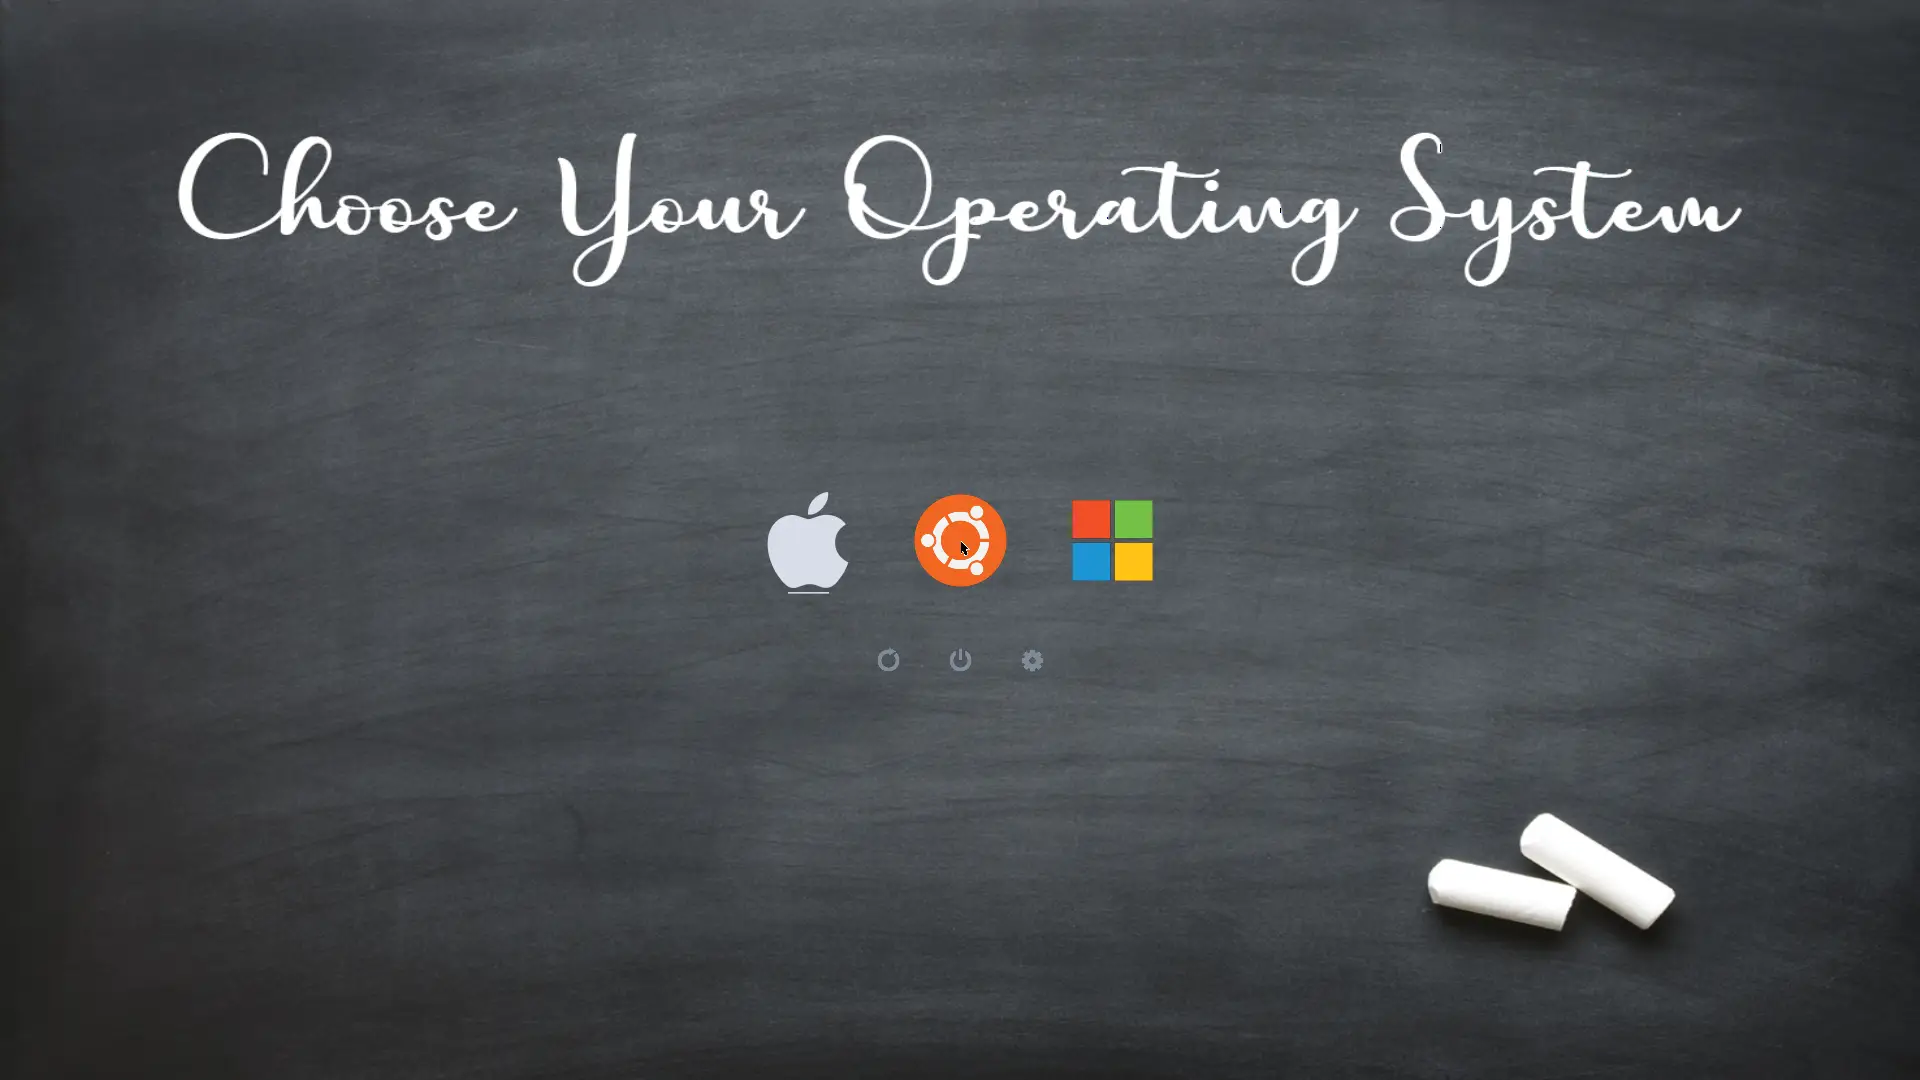
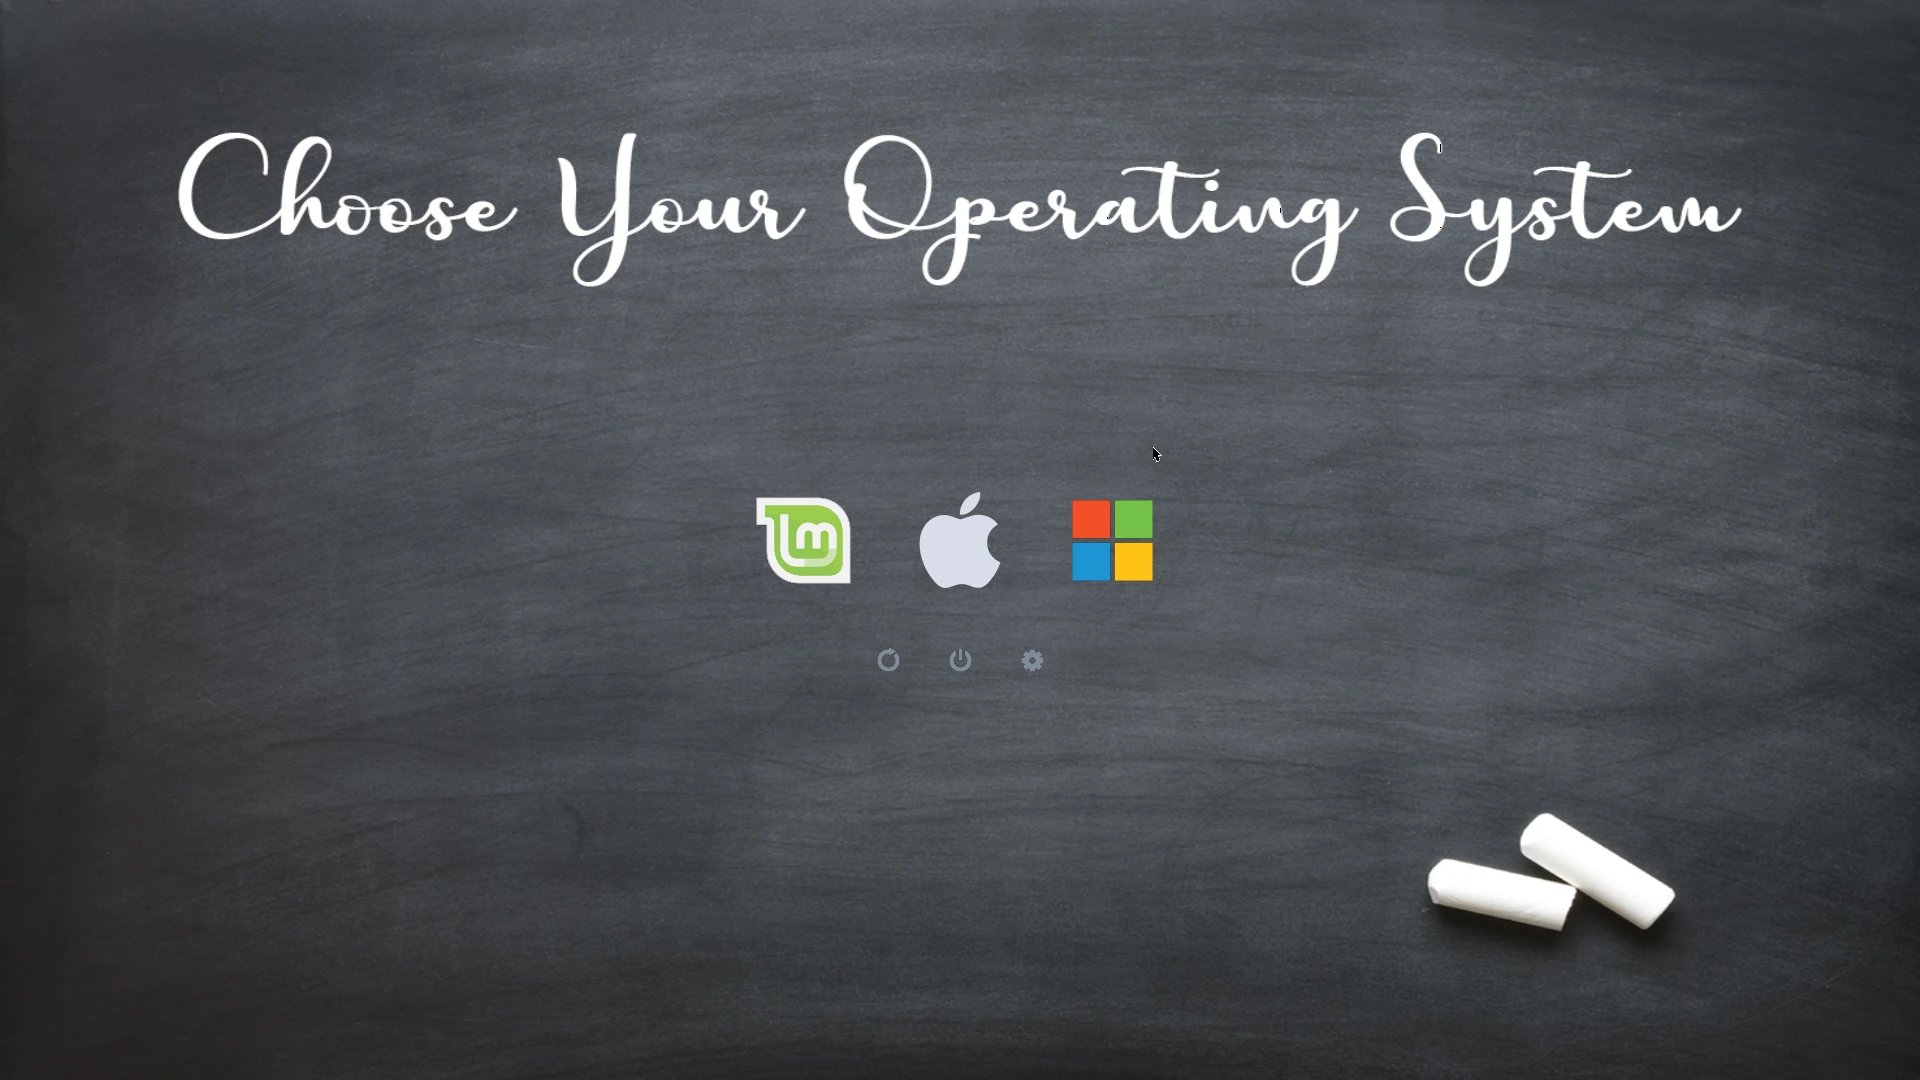
Opencore 1.0.5

Changed region(s): [[0.375, 0.4583, 0.5312, 0.55]]

diff --git a/README.md b/README.md
@@ -1,43 +1,65 @@
-# HACKINTOSH Dell Precision 5520
-# MacBook Pro 2017 14.3
+# 🍏 HACKINTOSH — Dell Precision 5520 → MacBook Pro 2017 14,3  
 
-  ![](https://github.com/GUNNERSx/Dell-Precision5520-hackintosh/blob/main/desktop.webp)
+![Desktop Preview](https://github.com/GUNNERSx/Dell-Precision5520-hackintosh/blob/main/desktop.webp)  
 
-  * Specifications
-  ![](https://github.com/GUNNERSx/Dell-Precision5520-hackintosh/blob/main/specs.webp)
+---
 
-**OpenCore Version** : [1.0.5](https://github.com/acidanthera/OpenCorePkg/releases)
+## 🛠 Specifications  
+![Specs](https://github.com/GUNNERSx/Dell-Precision5520-hackintosh/blob/main/specs.webp)  
 
- ### Bootloader
-  * [reFind](https://www.rodsbooks.com/refind/)
-  * ![](https://github.com/GUNNERSx/Dell-Precision5520-hackintosh/blob/main/reFindBootManager.webp)
-  **TRIPLE BOOT** : Ventura 13.6.4 / Ubuntu 22.04 / Windows 11
+🔄 **OpenCore Version**: [1.0.5](https://github.com/acidanthera/OpenCorePkg/releases)  
+🚀 **Bootloader**: [reFind](https://www.rodsbooks.com/refind/)  
+![reFind Manager](https://github.com/GUNNERSx/Dell-Precision5520-hackintosh/blob/main/reFindBootManager.webp)  
 
-## Configuration
+💻 **TRIPLE BOOT**  
+- 🍎 macOS Ventura 13.xx  
+- 🐧 Linux Mint 22  
+- 🪟 Windows 11  
 
-| Model     | MacBook Pro 2017  14.3      | Version        | Ventura 13.6.4      |
-| :-------- | :---------------------------| :------------- | :------------------ |
-| Processor | Intel Core i7-7820HQ        | Graphics       | Intel UHD 630       |
-| Memory    | 16Go x2                     | Storage        | SamSung SSD 970EVO  |
-| Mobo      | DeLL                        | BIOS revision  | DeLL Bios           |
-| Network   | intel AC 8265               | Audio          | Realtek layout 42   | 
-| Display   | DeLL LCD                    | Monitor        | LCD integrated      |
+---
 
- ### Working
- * GPU: Intel(R) UHD Graphics 630✅
- * Network Wifi: AC8265 AirportItlwm ✅
- * Bluetooth: IntelBluetoothFirmware ✅
- * Audio：spkear & mic working ✅
- * Input：keyboard mouse ✅
- * USB port：Working ✅ (Mapped with [USBTOOLBox](https://github.com/USBToolBox/tool))
- * Sleep/Wake：working ✅
- * Brightness keys ✅
- * Slow Trackpad fixed ✅
- 
- 
- ### Post installation
-  * I generated random Platform ID, use [GENSMBIOS](https://github.com/corpnewt/GenSMBIOS) or [OCAT](https://github.com/ic005k/OCAuxiliaryTools/releases) to generate your own Serial/UUID/MLB,
-   
- ## Credit
+## ⚙ Configuration  
 
- - Thanks to [Dortania Team](https://dortania.github.io/OpenCore-Install-Guide/prerequisites.html#prerequisites) and [OpenCoreTeam](https://github.com/acidanthera/OpenCorePkg)
+| 💻 **Model**      | **MacBook Pro 2017 – 14,3** | 🧩 **Version**       | Ventura 13.6.4        |
+|------------------|------------------------------|----------------------|------------------------|
+| 🧠 Processor      | Intel Core i7-7820HQ         | 🎨 Graphics           | Intel UHD 630          |
+| 🧵 Memory         | 16GB x2                      | 💾 Storage            | Samsung SSD 970 EVO    |
+| 🖥 Motherboard    | Dell                         | 🧬 BIOS Revision       | Dell BIOS              |
+| 🌐 Network        | Intel AC 8265                | 🔊 Audio              | Realtek (layout 42)    |
+| 📺 Display        | Dell LCD                     | 🖼 Monitor            | Integrated LCD         |
+
+---
+
+## ✅ Working Components  
+
+| 🔧 **Component**       | 📝 **Status & Notes**                                                                |
+|------------------------|--------------------------------------------------------------------------------------|
+| 🎮 GPU                | Intel UHD Graphics 630 — Fully functional ✅                                         |
+| 📶 Wi-Fi              | AC8265 using AirportItlwm — Native support ✅                                       |
+| 📡 Bluetooth          | IntelBluetoothFirmware — Stable ✅                                                   |
+| 🔊 Audio              | Speakers & Microphone — Working perfectly ✅                                        |
+| 🖱 Input Devices      | Keyboard & Mouse — Responsive ✅                                                     |
+| 🔌 USB Ports          | All ports mapped and functioning ✅ ([USBToolBox](https://github.com/USBToolBox/tool))|
+| 🌙 Sleep/Wake         | Works reliably ✅                                                                    |
+| 🔆 Brightness Keys    | Brightness controls work as expected ✅                                              |
+| 🛞 Trackpad           | Lag fixed — Smooth operation ✅                                                      |
+
+---
+
+## 🧱 Post Installation  
+
+⚙ Used random Platform ID — make sure to generate your own with:  
+- 🔧 [GenSMBIOS](https://github.com/corpnewt/GenSMBIOS)  
+- 🧰 [OCAT – OpenCore Auxiliary Tool](https://github.com/ic005k/OCAuxiliaryTools/releases)  
+
+---
+
+## 🙏 Credits  
+
+- Huge thanks to the 💡 [Dortania Team](https://dortania.github.io/OpenCore-Install-Guide/prerequisites.html#prerequisites)  
+- Appreciation to the 🔧 [OpenCore Team](https://github.com/acidanthera/OpenCorePkg) for the bootloader magic  
+
+---
+
+🖋 _Feel free to fork, contribute, or raise issues on GitHub. This setup aims to help Hackintosh enthusiasts make the most of their Dell Precision 5520!_
+
